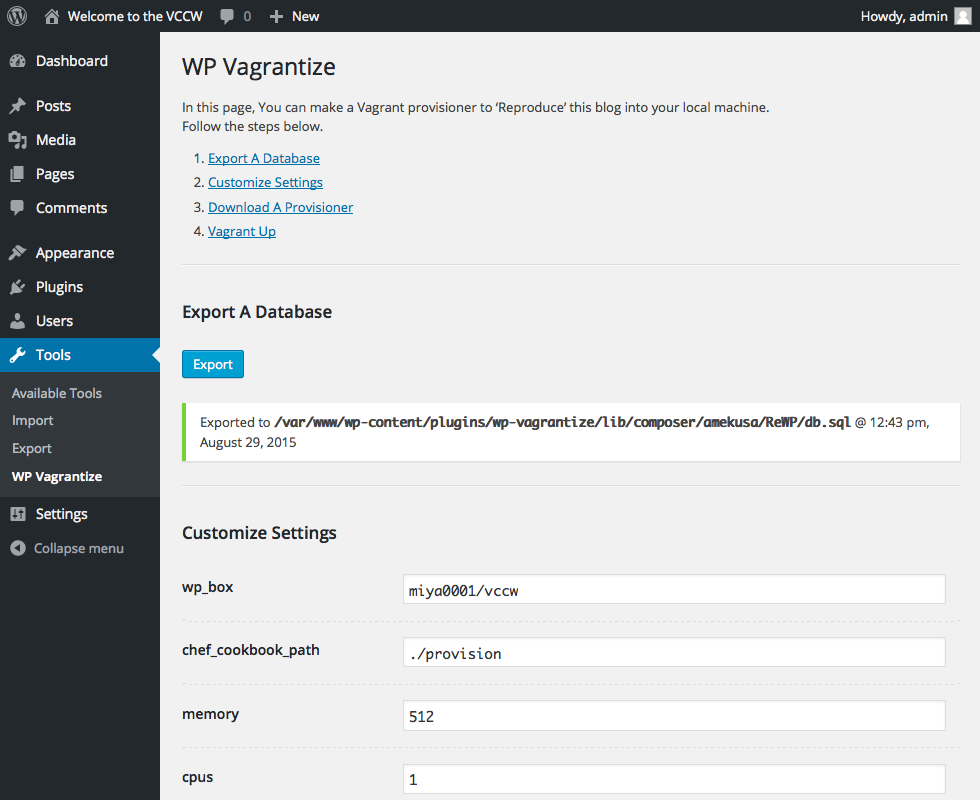
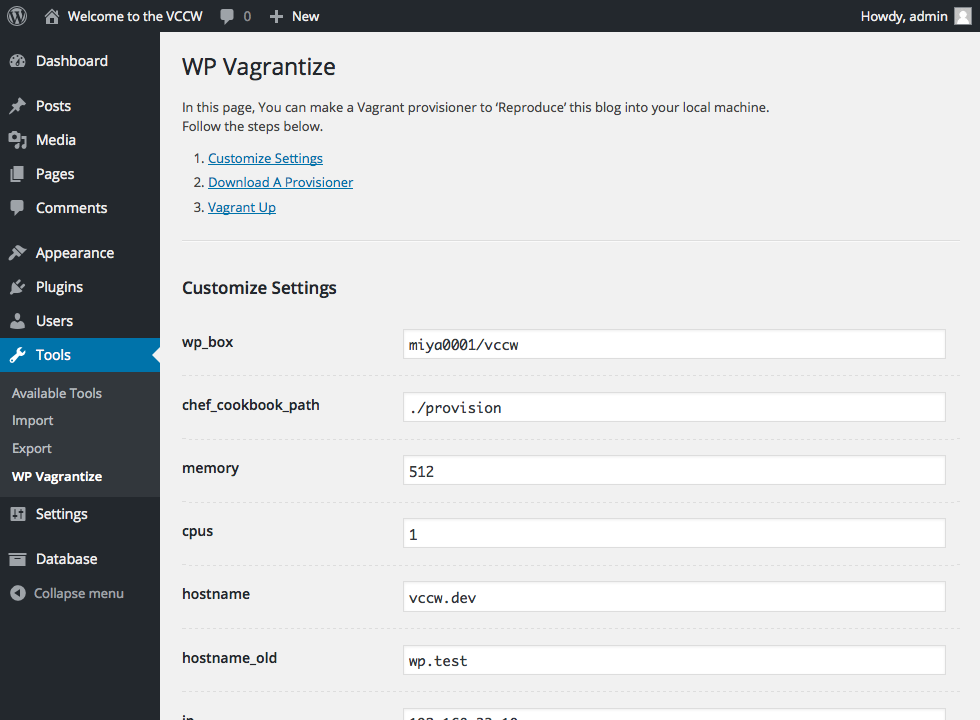
Update readme, screenshots

diff --git a/README.md b/README.md
@@ -32,8 +32,8 @@ You can install WP Vagrantize in the ordinary way.
 
 ## Screenshots ##
 
-1. Exporting a DB by a single click
-2. Downloading a provisioning file as .ZIP
+1. Customizing settings of a virtual machine ![Screenshot 1](screenshot-1.png)
+2. ![Screenshot 2](screenshot-2.png) Downloading a provisioning file as a ZIP
 
 ## Changelog ##
 
